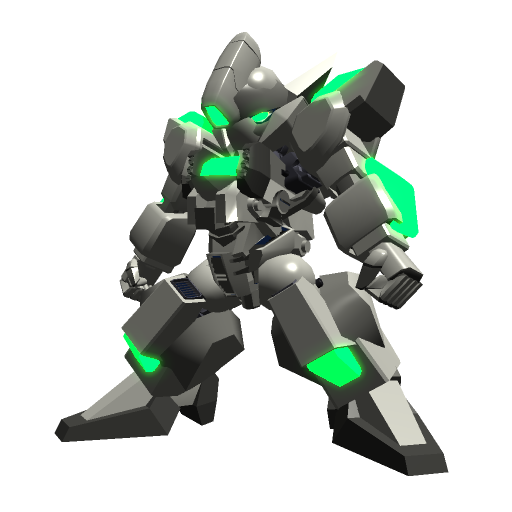
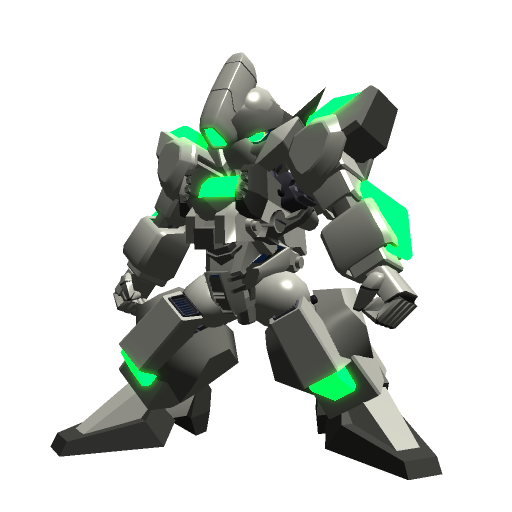
パンチアニメーションを変更した

Changed region(s): [[0.0938, 0.0625, 0.875, 0.9375]]

diff --git a/src/game-object/armdozer/shin-breaver/model/animation-type.js b/src/game-object/armdozer/shin-breaver/model/animation-type.js
@@ -1,4 +1,4 @@
 // @flow
 
 /** アニメーションタイプ */
-export type AnimationType = 'STAND' | 'MY_TURN' | 'PUNCH';
+export type AnimationType = 'STAND' | 'PUNCH';
